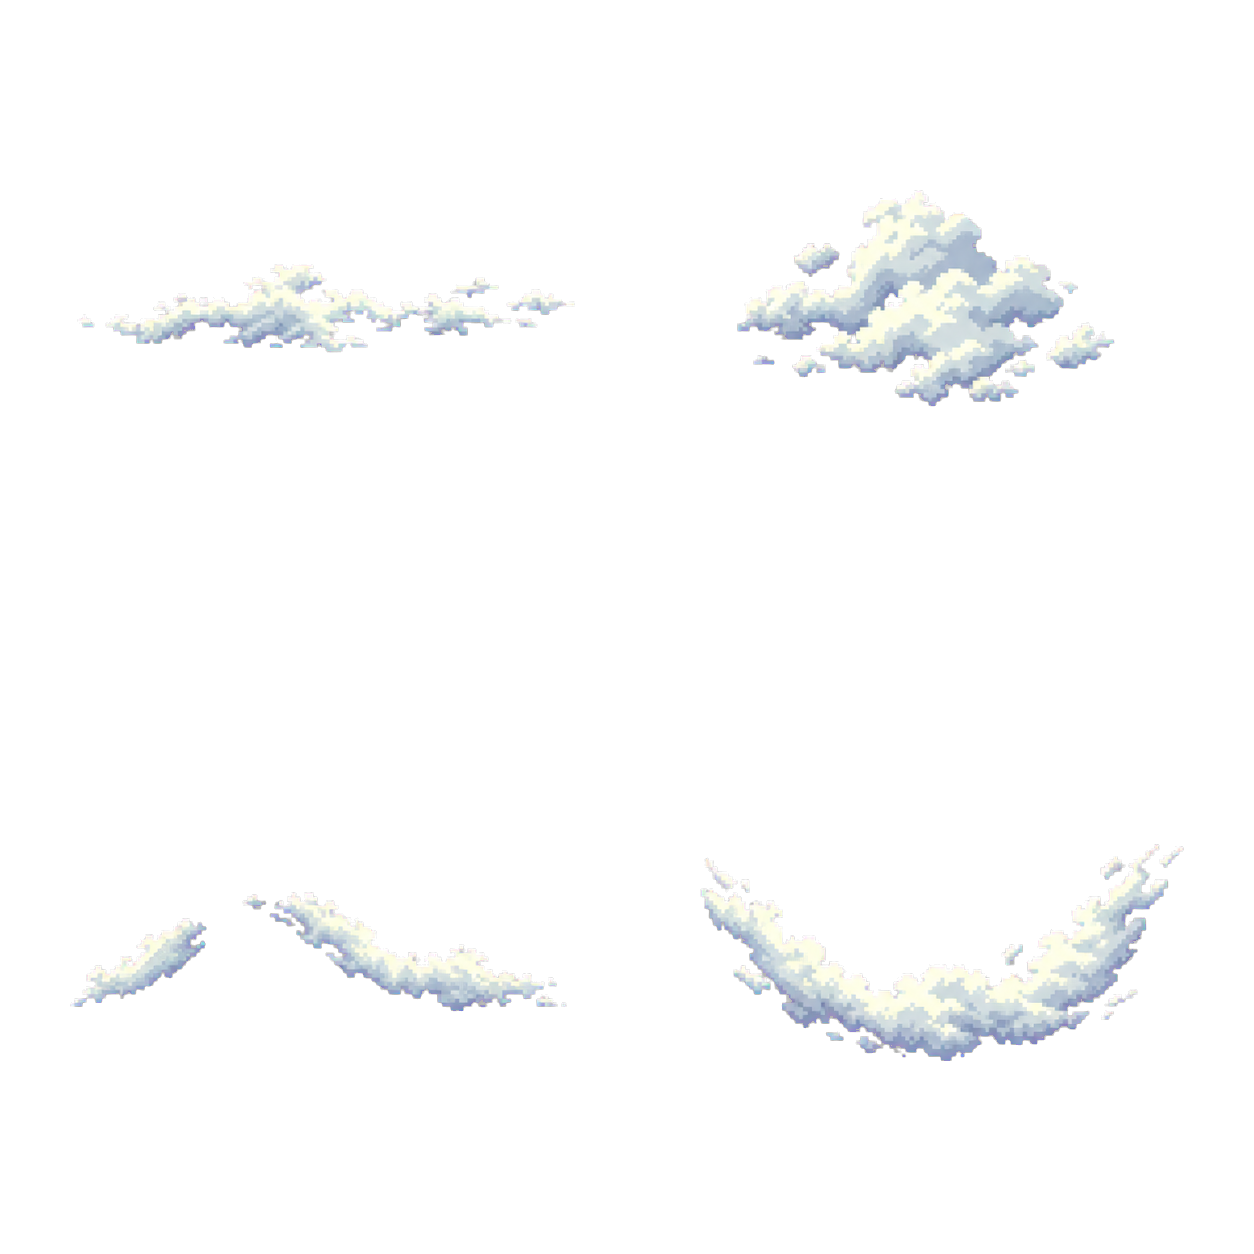
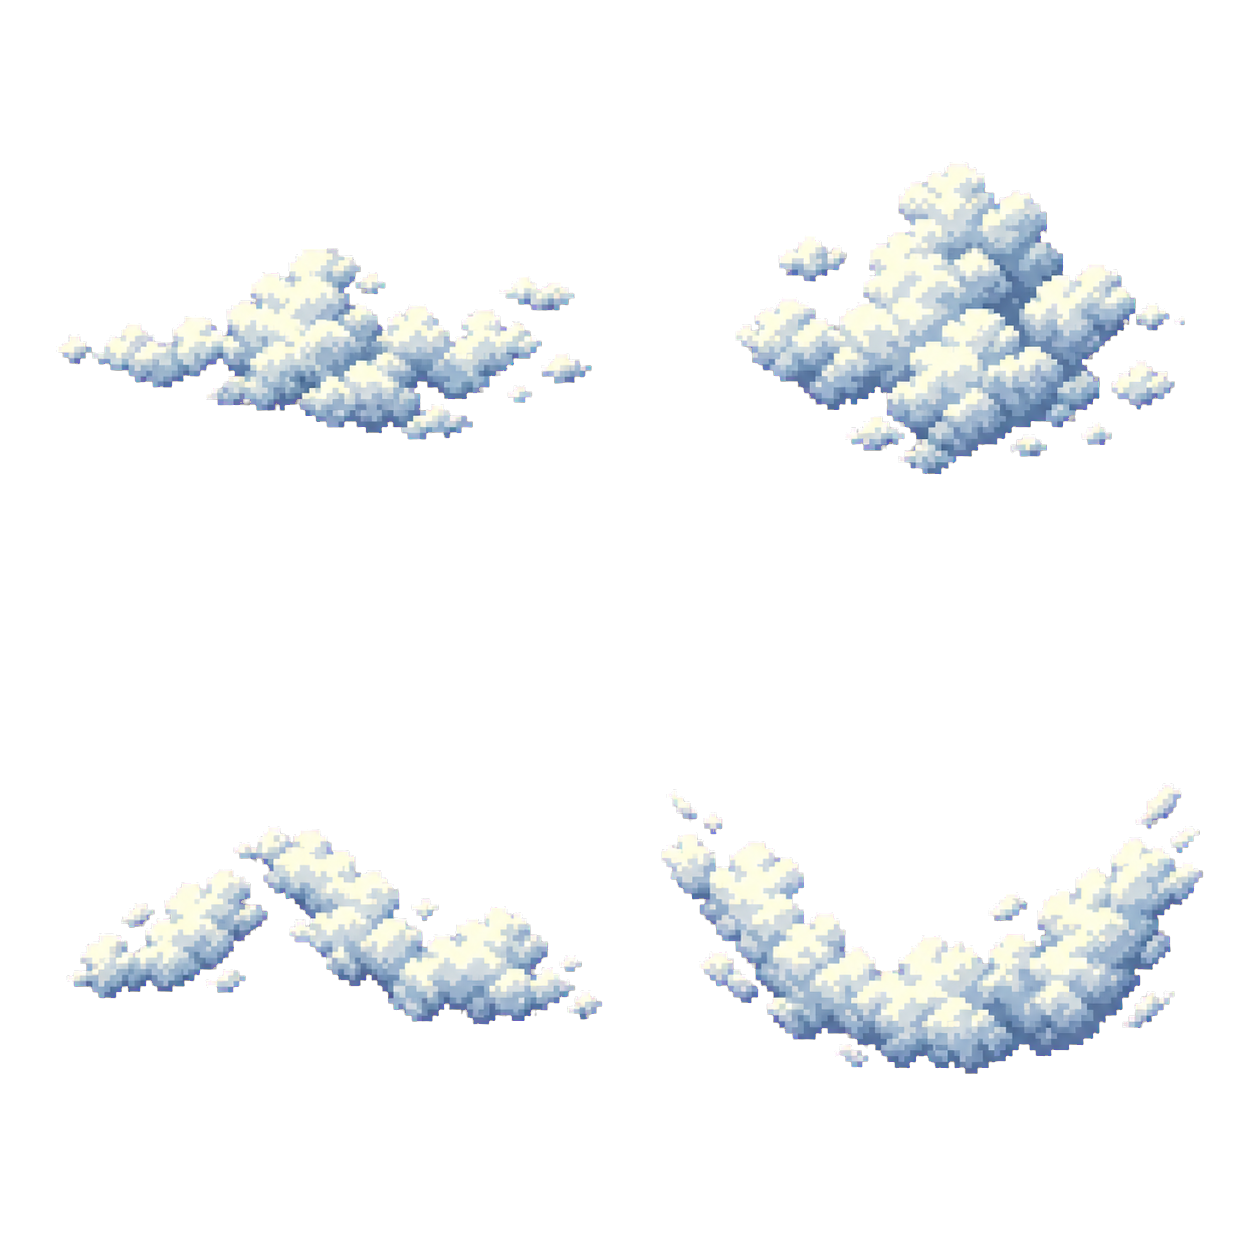
feat: strengthen cloud atmosphere visuals

diff --git a/tests/cloud-layer-renderer.test.ts b/tests/cloud-layer-renderer.test.ts
@@ -238,18 +238,19 @@ describe("cloud atmosphere assets and deterministic presentation", () => {
     });
   });
 
-  it("validates four distinct runtime frames and preloads the declared sheet", () => {
+  it("validates four distinct runtime frames and the reference-led presentation", () => {
     expect(validateCloudAssetPackage(CLOUD_ASSET_PACKAGE as never)).toBe(CLOUD_ASSET_PACKAGE);
     expect(CLOUD_ASSET_PACKAGE.variants).toHaveLength(4);
     expect(CLOUD_ASSET_PACKAGE.image.opaqueBounds).toHaveLength(4);
     expect(new Set(CLOUD_ASSET_PACKAGE.variants).size).toBe(4);
     expect(CLOUD_ASSET_PACKAGE.presentation.candidatesPerChunk).toBe(6);
-    expect(CLOUD_ASSET_PACKAGE.presentation.opacity.minimum).toBeGreaterThanOrEqual(0.3);
-    expect(CLOUD_ASSET_PACKAGE.presentation.opacity.maximum).toBeLessThanOrEqual(0.55);
+    expect(CLOUD_ASSET_PACKAGE.presentation.opacity.minimum).toBeGreaterThanOrEqual(0.85);
+    expect(CLOUD_ASSET_PACKAGE.presentation.opacity.maximum).toBeGreaterThanOrEqual(0.95);
+    expect(CLOUD_ASSET_PACKAGE.presentation.opacity.maximum).toBeLessThanOrEqual(1);
     expect(CLOUD_ASSET_PACKAGE.presentation.scale.minimum).toBeLessThanOrEqual(0.22);
     expect(CLOUD_ASSET_PACKAGE.presentation.scale.maximum).toBeGreaterThanOrEqual(0.5);
     expect(CLOUD_ASSET_PACKAGE.presentation.cloudTintsRgb).toHaveLength(4);
-    expect(CLOUD_ASSET_PACKAGE.presentation.cloudTintsRgb.at(-1)!.red).toBeLessThan(128);
+    expect(CLOUD_ASSET_PACKAGE.presentation.cloudTintsRgb.at(-1)!.red).toBeGreaterThanOrEqual(200);
     expect(CLOUD_ASSET_PACKAGE.presentation.driftAmplitudePixels.minimum).toBeGreaterThanOrEqual(80);
     expect(CLOUD_ASSET_PACKAGE.presentation.driftPeriodSeconds.maximum).toBeLessThanOrEqual(180);
     expect(CLOUD_ASSET_PACKAGE.presentation.openingClouds.offsetPixels).toHaveLength(3);
@@ -257,8 +258,15 @@ describe("cloud atmosphere assets and deterministic presentation", () => {
     expect(CLOUD_ASSET_PACKAGE.presentation.routeFadeFraction).toBeGreaterThan(0);
     expect(CLOUD_ASSET_PACKAGE.presentation.shadow.depth).toBeGreaterThan(50);
     expect(CLOUD_ASSET_PACKAGE.presentation.shadow.depth).toBeLessThan(CLOUD_ASSET_PACKAGE.presentation.depth);
-    expect(CLOUD_ASSET_PACKAGE.presentation.shadow.offsetPixels.x).toBeGreaterThanOrEqual(80);
-    expect(CLOUD_ASSET_PACKAGE.presentation.shadow.offsetPixels.y).toBeGreaterThanOrEqual(50);
+    expect(CLOUD_ASSET_PACKAGE.presentation.shadow.offsetPixels.x).toBeGreaterThanOrEqual(48);
+    expect(CLOUD_ASSET_PACKAGE.presentation.shadow.offsetPixels.x).toBeLessThanOrEqual(64);
+    expect(CLOUD_ASSET_PACKAGE.presentation.shadow.offsetPixels.y).toBeGreaterThanOrEqual(36);
+    expect(CLOUD_ASSET_PACKAGE.presentation.shadow.offsetPixels.y).toBeLessThanOrEqual(48);
+    expect(CLOUD_ASSET_PACKAGE.presentation.shadow.opacityMultiplier).toBeGreaterThanOrEqual(0.65);
+    expect(CLOUD_ASSET_PACKAGE.presentation.shadow.scale.x).toBeGreaterThan(1);
+    expect(CLOUD_ASSET_PACKAGE.presentation.shadow.scale.y).toBeGreaterThan(0.5);
+    expect(CLOUD_ASSET_PACKAGE.presentation.shadow.scale.y).toBeLessThanOrEqual(0.65);
+    expect(CLOUD_ASSET_PACKAGE.presentation.shadow.tintRgb.red).toBeLessThan(24);
 
     const calls: unknown[][] = [];
     preloadCloudAsset({

diff --git a/src/wayfinders/assets/CloudAssetCatalog.ts b/src/wayfinders/assets/CloudAssetCatalog.ts
@@ -117,8 +117,8 @@ export function validateCloudAssetPackage(input: typeof packageInput): Readonly<
   finite(presentation.depth, "presentation.depth");
   unitInterval(presentation.opacity.minimum, "presentation.opacity.minimum");
   unitInterval(presentation.opacity.maximum, "presentation.opacity.maximum");
-  if (presentation.opacity.minimum > presentation.opacity.maximum || presentation.opacity.maximum > 0.55) {
-    throw new RangeError("Cloud opacity must be ordered and preserve the 0.55 acceptance cap");
+  if (presentation.opacity.minimum > presentation.opacity.maximum) {
+    throw new RangeError("Cloud opacity must be ordered");
   }
   if (presentation.scale.minimum <= 0 || presentation.scale.minimum > presentation.scale.maximum) {
     throw new RangeError("Cloud scale range must be positive and ordered");

diff --git a/assets-src/cld1/clouds/SOURCE_PROVENANCE.md b/assets-src/cld1/clouds/SOURCE_PROVENANCE.md
@@ -4,16 +4,26 @@
 - Source image: `assets-src/cld1/clouds/cloud-sheet-original.png`
 - Package: `src/wayfinders/assets/packages/cloud-atmosphere.json`
 - Created: 2026-07-16
+- Refreshed: 2026-07-18 from the supplied in-game cloud reference
 - Generator path: built-in OpenAI image generation, followed by the installed
   imagegen skill's chroma-key removal helper.
-- Runtime revision: `1`
+- Source asset ID: `generated.cloud-atmosphere.source.v2`
+- Runtime revision: `5`
 
-The source prompt requested four isolated top-down pixel-art cloud formations
-in an exact two-by-two grid on a uniform `#ff00ff` background: a long broken
-wisp, compact uneven cluster, split trailing wisps, and shallow crescent bank.
-It constrained the cloud palette to pale off-white and blue-gray, prohibited
-text, shadows, weather, terrain, and perspective, and required generous cell
-padding. Chroma removal sampled the border and used a soft matte with despill.
+The refresh used the supplied island-and-ocean screenshot as its visual-style
+reference and the prior sheet as its layout target. The prompt requested four
+fuller, strongly dimensional top-down pixel-art cumulus formations in the exact
+two-by-two grid: a long broken cluster, compact uneven cluster, split trailing
+cluster, and shallow crescent bank. It specified warm ivory upper-left
+highlights, pale blue midtones, cool blue-gray undersides, detached puffs, crisp
+pixel steps, generous frame padding, and a uniform `#ff00ff` background. It
+prohibited baked cast shadows, text, terrain, ocean, UI, and other scene
+elements because the runtime pairs each frame with its own shadow sprite.
+
+Chroma removal sampled the border and used a soft matte with despill. One
+detached component crossing the internal frame boundary was removed before the
+source and runtime sheets were finalized; no runtime frame touches or crosses a
+sheet boundary.
 
 The runtime RGBA sheet is `1254 x 1254`, divided into four `627 x 627` frames.
 The source is retained for provenance only and never loads at runtime.

diff --git a/docs/Wayfinders_Technical_Design.md b/docs/Wayfinders_Technical_Design.md
@@ -587,12 +587,14 @@ Cloud atmosphere is an independent presentation layer. Each candidate owns a
 paired shadow at depth `51` and cloud at depth `52`, above map art, knowledge,
 the ship, feature markers, and Voyage Sense guidance but below diagnostics,
 prompts, and UI. The shadow reuses the candidate silhouette and reflection with
-a dark tint, pronounced southeast offset, reduced opacity, and flattened
-vertical scale; the increased separation establishes height immediately. It
-moves in lockstep with the cloud and can cross sea, terrain, or the ship.
-Cloud sprites sample a seeded four-tone white-to-storm-blue palette and a wider
-`0.22` through `0.50` scale range. Their `0.34` through `0.52` opacity range
-keeps silhouettes readable while preserving a `0.55` package ceiling.
+a dark navy tint, a `56 x 42`-pixel southeast offset, a `0.68` opacity
+multiplier, and a broad `1.08 x 0.58` scale; the separation and flattened
+silhouette establish height immediately. It moves in lockstep with the cloud
+and can cross sea, terrain, or the ship. Cloud sprites use four fuller, top-lit
+pixel-art cumulus formations with detached puffs and sample a seeded near-white
+ivory-to-cool-blue palette across the existing `0.22` through `0.50` scale
+range. Their `0.88` through `0.98` opacity range preserves the source art's
+dimensional highlights and blue-gray undersides over the ocean.
 
 Each referenced canonical chunk defaults to six deterministic candidate slots
 distributed by a stable low-discrepancy sequence; increasing frequency adds
@@ -602,7 +604,7 @@ island, guaranteeing the default opening composition without adding another
 resource class, then fills any remaining frequency with ordinary slots. The world seed,
 chunk, and candidate slot choose scale, horizontal reflection, opacity, drift
 amplitude, drift period, direction, colour, position, and phase. The three
-opening slots deliberately use light, middle, and darkest tones together with
+opening slots deliberately use white, pale-blue, and coolest tones together with
 small, middle, and large scales. Candidate creation, motion, phase, and route
 progress are independent of fog. Each existing pair continues moving while
 hidden and is never rebuilt merely because knowledge or live sight changes.